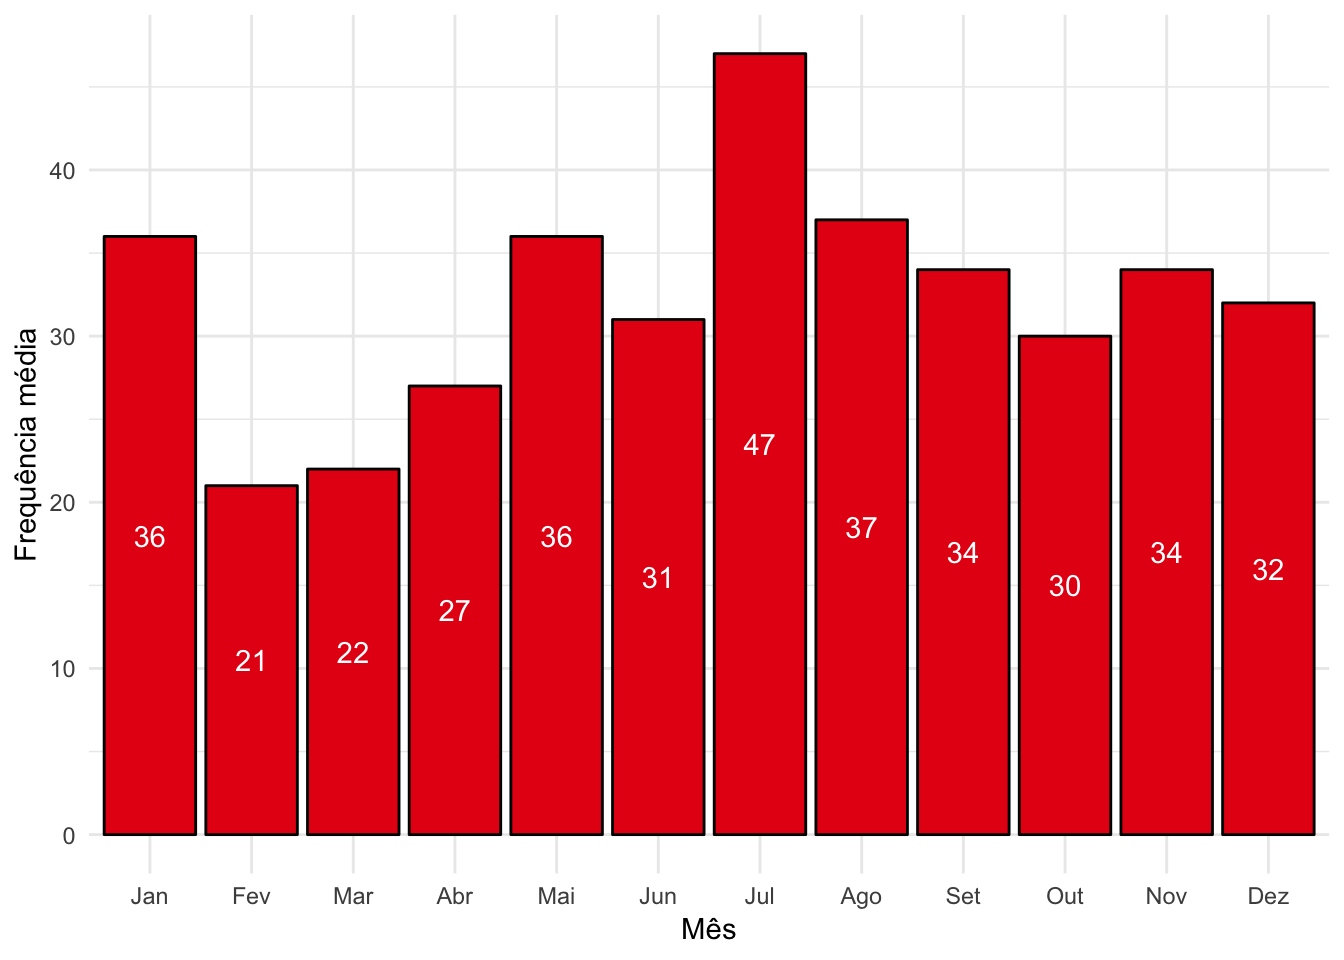
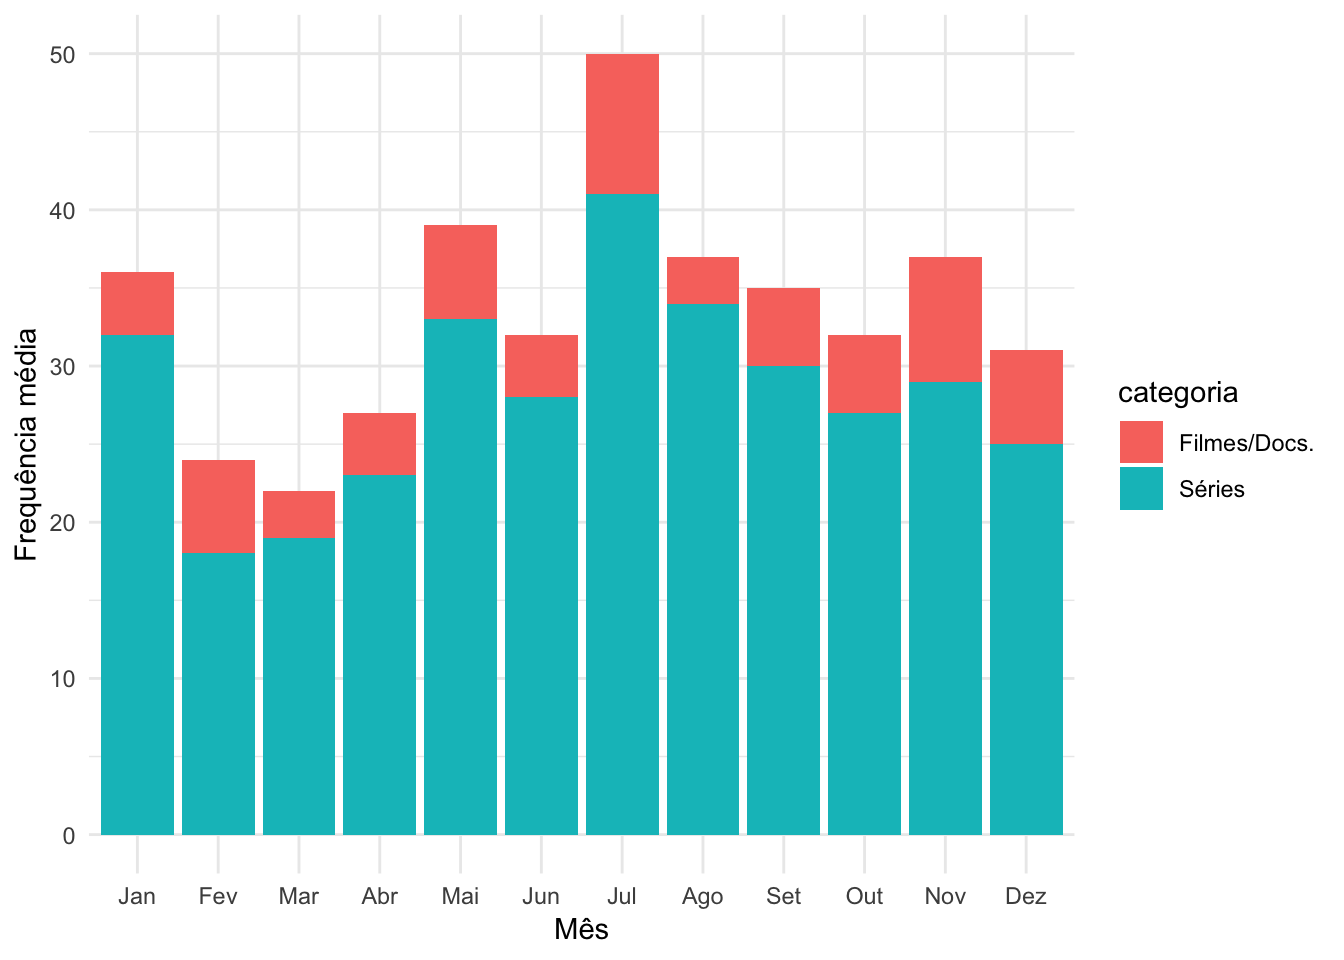
post netflix

diff --git a/content/blog/2019-06-05-netflix.html b/content/blog/2019-06-05-netflix.html
@@ -1,8 +1,8 @@
 ---
 title: "Analisando o seu histórico do Netflix"
 date: "2019-06-06T00:00:00+00:00"
-categories: ["r", "analises"]
-tags: ["r"]
+categories: ["r", "análises"]
+tags: ["r", "Netflix"]
 banner: "img/banners/binge.jpg"
 author: ["William"]
 summary: "Neste post, vamos brincar com o histórico de visualização do Netflix."
@@ -12,6 +12,7 @@ draft: true
 
 
 <p>Motivado pelo tweet da jornalista de dados <a href="https://twitter.com/gabrielacaesar">Gabriela Caesar</a>, resolvi pegar a base do meu histórico no Netflix e montar algumas visualizações para descobrir como venho utilizando a plataforma nesses últimos anos.</p>
+<center>
 <blockquote class="twitter-tweet" data-lang="en">
 <p lang="pt" dir="ltr">
 Qual foi o primeiro filme ou a primeira série a que você assistiu quando assinou a Netflix? No meu caso, em março de 2016, vi “House of Cards: Temporada 1: Capítulo 1” e “De Volta ao Jogo”. Baixe o seu histórico da Netflix aqui: <a href="https://t.co/EzG2nki18I">https://t.co/EzG2nki18I</a>
@@ -19,6 +20,7 @@ Qual foi o primeiro filme ou a primeira série a que você assistiu quando assin
 — gabriela caesar (<span class="citation">@gabrielacaesar</span>) <a href="https://twitter.com/gabrielacaesar/status/1136119301822459904?ref_src=twsrc%5Etfw">June 5, 2019</a>
 </blockquote>
 <script async src="https://platform.twitter.com/widgets.js" charset="utf-8"></script>
+</center>
 <p>A seguir, explico o passo a passo da análise e apresento os resultados.</p>
 <div id="pegar-a-base" class="section level2">
 <h2>1. Pegar a base</h2>
@@ -28,18 +30,19 @@ Qual foi o primeiro filme ou a primeira série a que você assistiu quando assin
 <li><p>Entrar na página <a href="https://www.netflix.com/viewingactivity">netflix.com/viewingactivity</a>.</p></li>
 <li><p>No final da página, clicar em <strong>Download all</strong>.</p></li>
 </ul>
-<div id="lendo-a-base-fazendo-algumas-manipulacoes" class="section level3">
-<h3>2. Lendo a base fazendo algumas manipulações</h3>
+<div id="lendo-a-base-e-fazendo-algumas-manipulacoes" class="section level3">
+<h3>2. Lendo a base e fazendo algumas manipulações</h3>
 <p>A base vem em um arquivo <code>.csv</code> com duas colunas:</p>
 <ul>
 <li><p>título da série/filme que você assistiu;</p></li>
 <li><p>data em que o título foi assistido.</p></li>
 </ul>
-<p>O título traz informação sobre o nome da série, a temporada e o episódio. Não temos informação sobre a categoria (filme, série, documentário etc) ou duração de cada programa. A data corresponde ao dia, mês e ano que o título foi assistido, sem informação da hora. Sempre começamos a assistir qualquer título, uma nova linha é gerada na base, independentemente se assistimos por 1 minuto ou até o final.</p>
-<p>Para gerar mais informações a partir dessa base, eu criei as seguintes colunas a partir delas:</p>
+<p>O título traz informação sobre o nome do filme ou da série e, se for uma série, também a temporada e o episódio. A data corresponde ao dia, mês e ano que o título foi assistido, sem informação da hora. Sempre começamos a assistir qualquer título, uma nova linha é gerada na base, independentemente se assistimos por 1 minuto ou até o final.</p>
+<p>À princípio, não temos informação sobre a categoria (filme, série, documentário etc) ou duração de cada programa. No entanto, supondo que séries sempre terão padrões do tipo <code>: Season</code> na coluna Título, podemos criar a coluna <em>categoria</em>. Além dela, para gerar mais informações, eu criei as seguintes colunas a partir da base original:</p>
 <ul>
 <li><p>mês da visualização;</p></li>
 <li><p>ano da visualização;</p></li>
+<li><p>dia da semana em que o título foi visualizado;</p></li>
 <li><p>programa.</p></li>
 </ul>
 <p>A construção da nova coluna <code>programa</code>, no caso das séries, supõe que tudo o que aparece depois do <code>:</code> nos nomes dos títulos é informação sobre temporada e episódio. Assim, removendo essa informação, podemos contar quantas vezes assistimos cada série, independentemente do episódio.</p>
@@ -53,6 +56,9 @@ netflix &lt;- netflix %&gt;%
     Date = lubridate::mdy(Date),
     mes = lubridate::month(Date, label = TRUE, locale = &quot;pt_BR.UTF-8&quot;),
     ano = lubridate::year(Date),
+    dia_sem = lubridate::wday(Date, label = TRUE, locale = &quot;pt_BR.UTF-8&quot;),
+    categoria = str_detect(Title, &quot;: [Season|Part|Book|Capítulo|Chapter|Vol.|Volume|SEASON]&quot;),
+    categoria = ifelse(categoria, &quot;Séries&quot;, &quot;Filmes/Docs.&quot;),
     mes_ano = Date,
     programa = str_remove(Title, &quot;:.*&quot;)
   )
@@ -65,7 +71,7 @@ lubridate::day(netflix$mes_ano) &lt;- 1
 </div>
 <div id="resultados" class="section level2">
 <h2>3. Resultados</h2>
-<p>Primeiro, fiz um gráfico para ver a série do número de títulos assistidos ao longo do tempo (eu assinei a Netflix em julho de 2012). Entre um pico de visualização ou outro (maratonas), a minha frequência foi mais ou menos constante ao longo dos anos, com exceção à 2019 (reta pontilhada), que bate com a reta final do meu Doutorado.</p>
+<p>Primeiro, fiz um gráfico para ver a série temporal do número de títulos assistidos ao longo do tempo (eu assinei a Netflix em julho de 2012). Entre um pico de visualização ou outro (as famosas maratonas), a minha frequência foi mais ou menos constante ao longo dos anos, com exceção à 2019 (reta pontilhada), cuja queda coincide com a reta final do meu Doutorado.</p>
 <pre class="r"><code>netflix %&gt;% 
   count(mes_ano) %&gt;% 
   ggplot(aes(x = mes_ano, y = n)) +
@@ -78,28 +84,34 @@ lubridate::day(netflix$mes_ano) &lt;- 1
   ) +
   labs(x = &quot;Ano&quot;, y = &quot;Frequência&quot;)</code></pre>
 <p><img src="/blog/2019-06-05-netflix_files/figure-html/unnamed-chunk-2-1.png" width="672" /></p>
-<p>Para entender o meu comportamento ao longo do ano, fiz um gráfico da número médio de títulos assistidos por mês. Talvez um reflexo dos meus anos letivos, julho é o mês que em média eu mais assisti Netflix.</p>
+<p>Para ver quais meses do ano eu assisto mais netflix, eu fiz um gráfico do número médio de títulos assistido por mês do ano. Talvez um reflexo de 12 anos na universidade, julho, mês de férias letivas, é o que em média eu mais assisti Netflix.</p>
 <pre class="r"><code>netflix %&gt;% 
-  count(mes, ano) %&gt;% 
-  group_by(mes) %&gt;% 
+  count(mes, ano, categoria) %&gt;% 
+  group_by(mes, categoria) %&gt;% 
   summarise(freq_media = mean(n)) %&gt;% 
   mutate(freq_media = round(freq_media)) %&gt;% 
-  ggplot(aes(x = mes, y = freq_media)) +
-  geom_col(fill = &quot;#e50914&quot;, color = &quot;black&quot;) +
-  geom_text(aes(label = freq_media, y = freq_media/2), color = &quot;white&quot;) +
+  ggplot(aes(x = mes, y = freq_media, fill = categoria)) +
+  geom_col() +
   labs(x = &quot;Mês&quot;, y = &quot;Frequência média&quot;)</code></pre>
 <p><img src="/blog/2019-06-05-netflix_files/figure-html/unnamed-chunk-3-1.png" width="672" /></p>
 <p>Fiz também o gráfico por ano, contando o número de programas assistidos por ano. 2018 foi o campeão, mas com certeza foi influência do meu pai e da minhã irmã, que usaram o meu perfil por um tempo.</p>
 <pre class="r"><code>netflix %&gt;% 
-  count(ano) %&gt;% 
-  ggplot(aes(x = ano, y = n)) +
-  geom_col(fill = &quot;#e50914&quot;, color = &quot;black&quot;) +
-  labs(x = &quot;Ano&quot;, y = &quot;Frequência total&quot;) +
-  geom_text(aes(label = n, y = n/2), color = &quot;white&quot;) +
+  count(ano, categoria) %&gt;% 
+  ggplot(aes(x = ano, y = n, fill = categoria)) +
+  geom_col() +
+  labs(x = &quot;Ano&quot;, y = &quot;Frequência total&quot;, fill = &quot;&quot;) +
   scale_x_continuous(breaks = min(netflix$ano):max(netflix$ano))</code></pre>
 <p><img src="/blog/2019-06-05-netflix_files/figure-html/unnamed-chunk-4-1.png" width="672" /></p>
-<p>Por fim, contei as séries que mais assisti. O resultado representa bem o meu gosto: 9 das 10 séries são comédias.</p>
+<p>Analisando agora o dia da semana, sem surpresa: fins de semana ganham. Mas é curioso que eu costumo assistir mais filmes às sextas do que no resto da semana.</p>
 <pre class="r"><code>netflix %&gt;% 
+  count(dia_sem, categoria) %&gt;% 
+  ggplot(aes(x = dia_sem, y = n, fill = categoria)) +
+  geom_col() +
+  labs(x = &quot;Dia da semana&quot;, y = &quot;Frequência total&quot;, fill = &quot;&quot;)</code></pre>
+<p><img src="/blog/2019-06-05-netflix_files/figure-html/unnamed-chunk-5-1.png" width="672" /></p>
+<p>Por fim, contei as séries que mais assisti. O resultado representa bem o meu gosto: 8 das 10 séries são comédias (sendo que o desenho Avatar nem fui eu quem assistiu).</p>
+<pre class="r"><code>netflix %&gt;% 
+  filter(categoria  == &quot;Séries&quot;) %&gt;% 
   count(programa) %&gt;%
   top_n(10, n) %&gt;% 
   mutate(programa = fct_reorder(programa, n)) %&gt;% 
@@ -108,7 +120,7 @@ lubridate::day(netflix$mes_ano) &lt;- 1
   geom_text(aes(label = n, y = n/2), color = &quot;white&quot;) +
   labs(x = &quot;Série&quot;, y = &quot;Frequência média&quot;) +
   coord_flip()</code></pre>
-<p><img src="/blog/2019-06-05-netflix_files/figure-html/unnamed-chunk-5-1.png" width="672" /></p>
+<p><img src="/blog/2019-06-05-netflix_files/figure-html/unnamed-chunk-6-1.png" width="672" /></p>
 </div>
 <div id="faca-os-graficos-para-os-seus-dados" class="section level2">
 <h2>4. Faça os gráficos para os seus dados</h2>
@@ -117,6 +129,7 @@ lubridate::day(netflix$mes_ano) &lt;- 1
 <li><p>baixe a sua base como descrito no passo 1 deste post;</p></li>
 <li><p>acesse o seguinte link <a href="https://rseis.shinyapps.io/shinyNetflix/" class="uri">https://rseis.shinyapps.io/shinyNetflix/</a>;</p></li>
 <li><p>faça o upload da base;</p></li>
-<li><p>clique na imagem gerada com o botão direito para copiá-la ou salvá-la.</p></li>
+<li><p>clique na imagem gerada com o botão direito para copiá-la ou salvá-la e compartilhe com a gente no Twitter ou Facebook!</p></li>
 </ul>
+<p>Dúvidas, críticas e sugestões, é só deixar um comentário!</p>
 </div>
